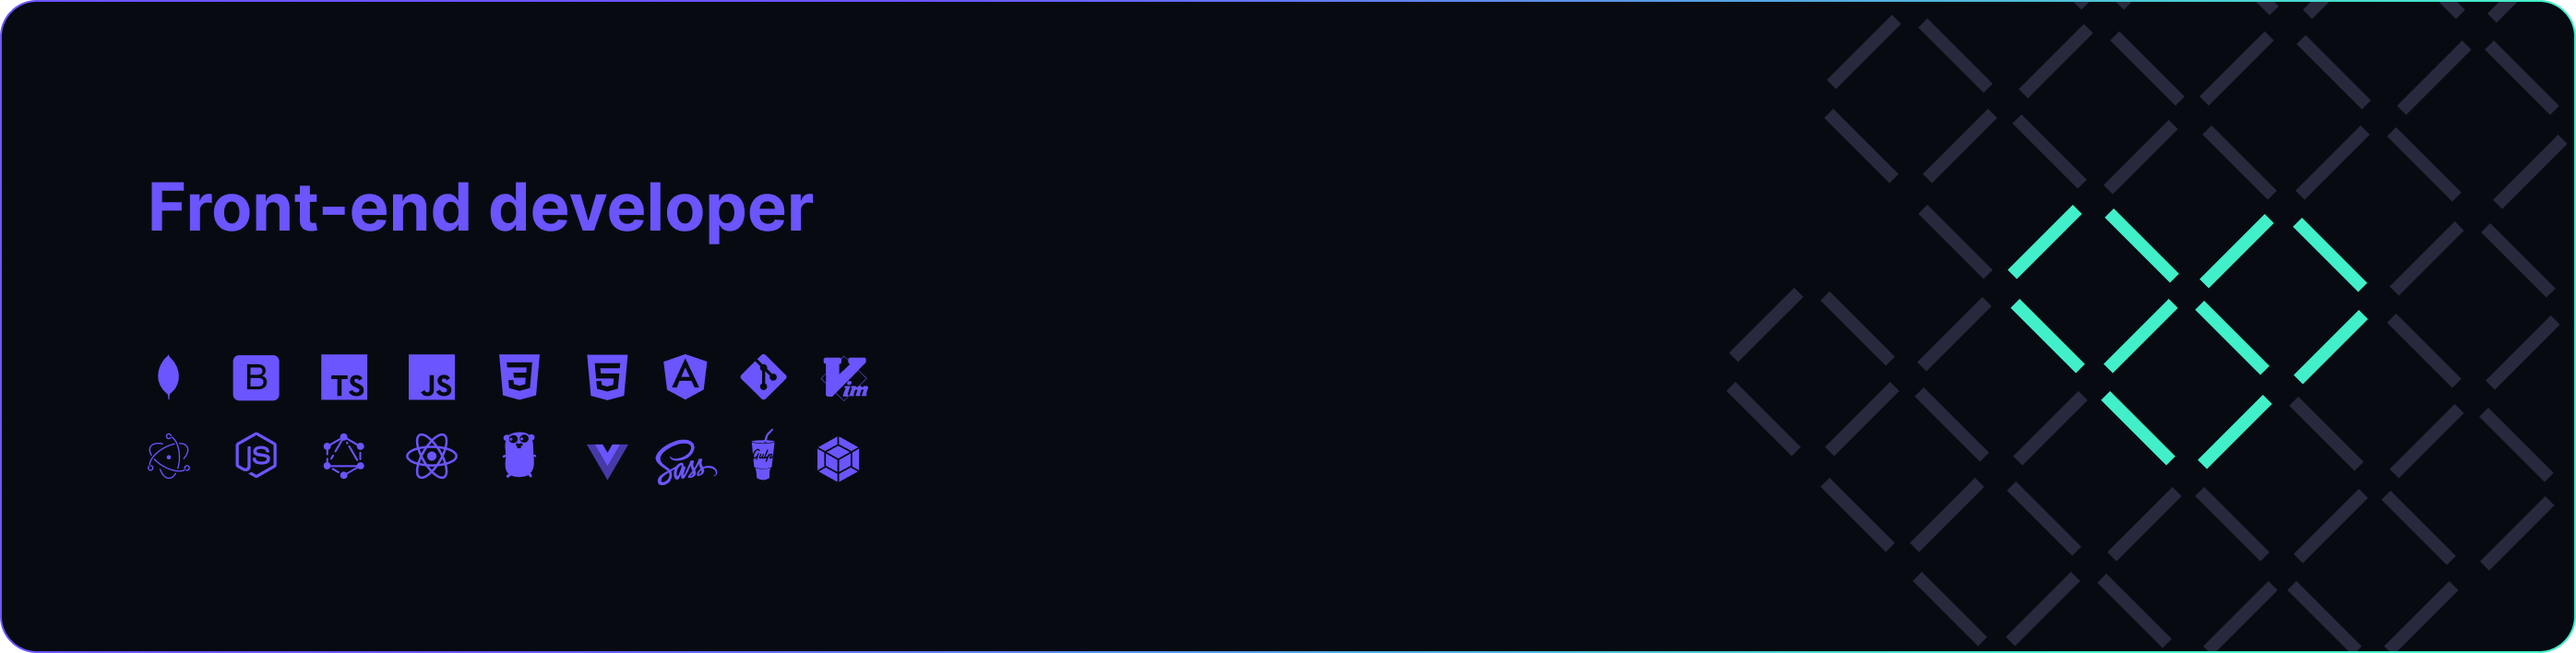
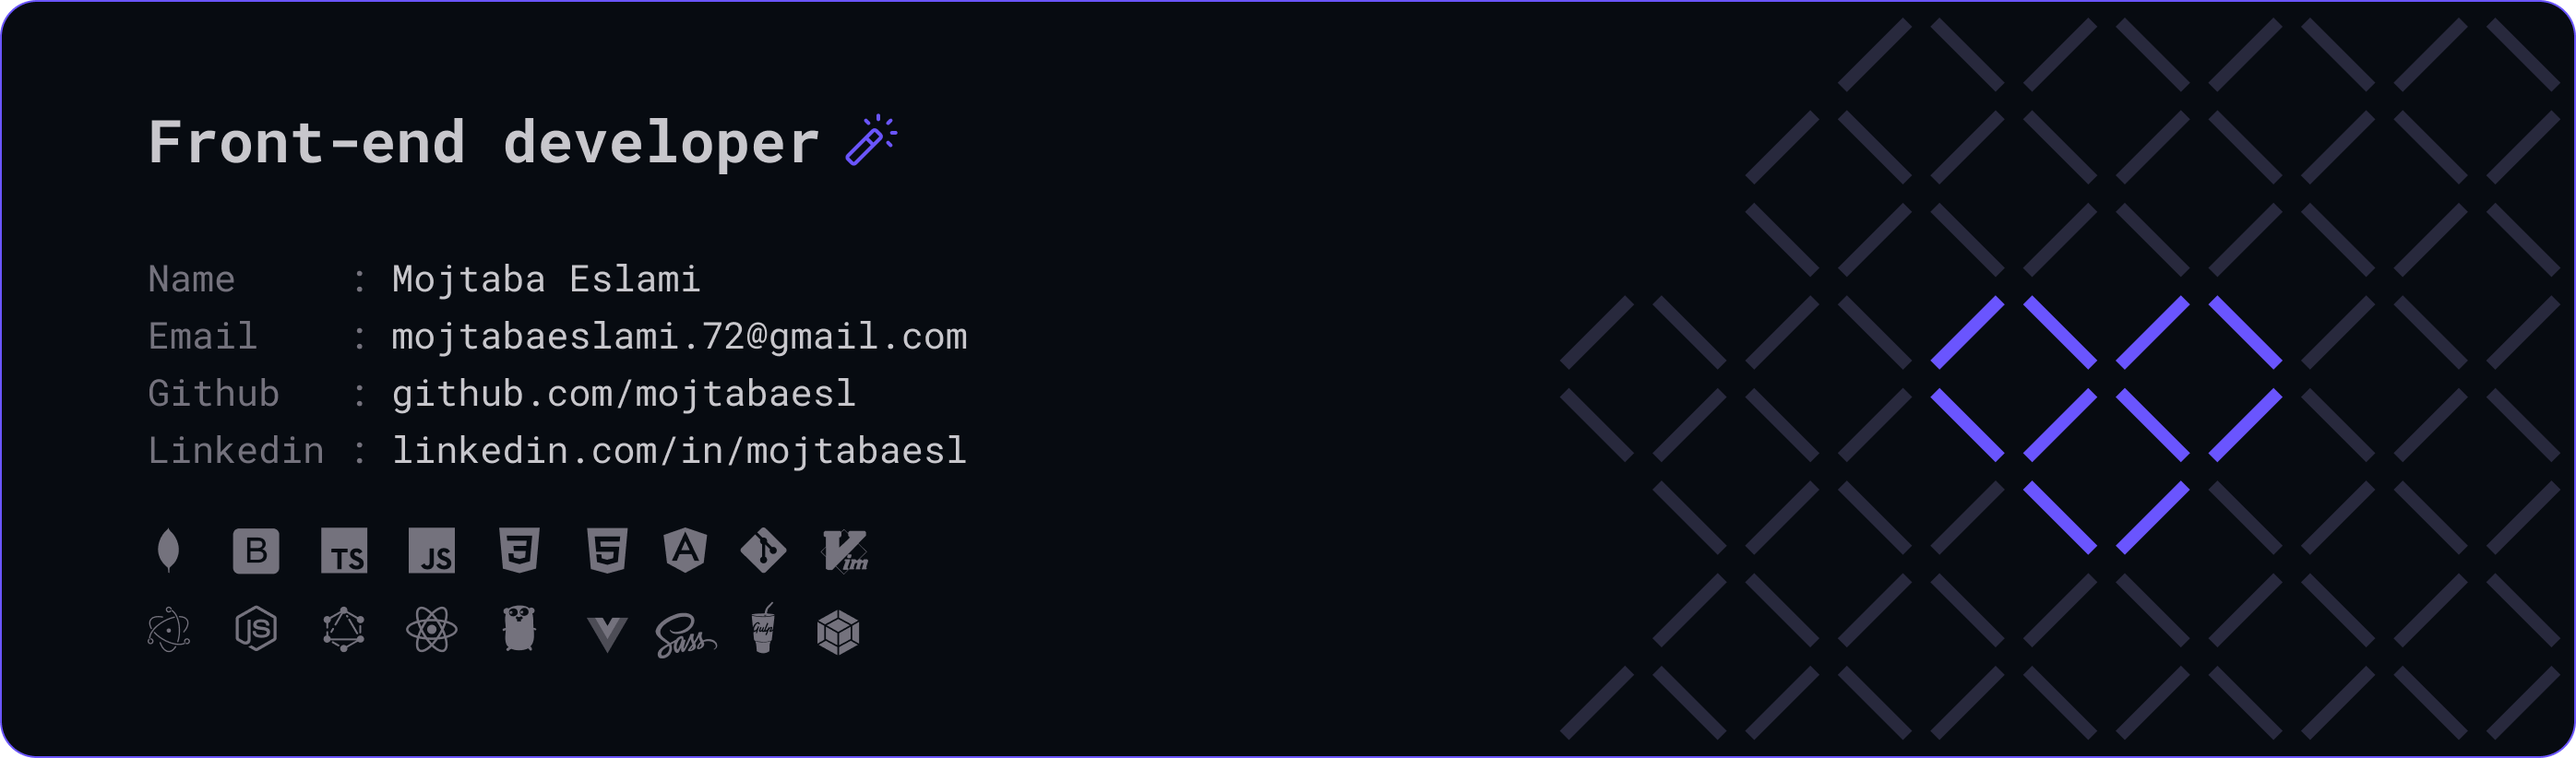
add light and dark headers

diff --git a/README.md b/README.md
@@ -1,19 +1,5 @@
-<!--
-**mojtabaesl/mojtabaesl** is a ✨ _special_ ✨ repository because its `README.md` (this file) appears on your GitHub profile.
-
-Here are some ideas to get you started:
-
-- 🔭 I’m currently working on ...
-- 🌱 I’m currently learning ...
-- 👯 I’m looking to collaborate on ...
-- 🤔 I’m looking for help with ...
-- 💬 Ask me about ...
-- 📫 How to reach me: ...
-- 😄 Pronouns: ...
-- ⚡ Fun fact: ...
--->
-
 ![header](./assets/header-dark.png#gh-dark-mode-only)
+![header](./assets/header-light.png#gh-light-mode-only)
 
 <div align="center" >
 
